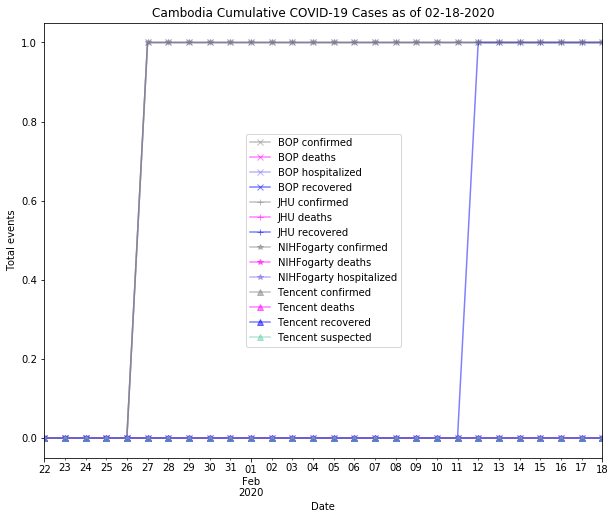
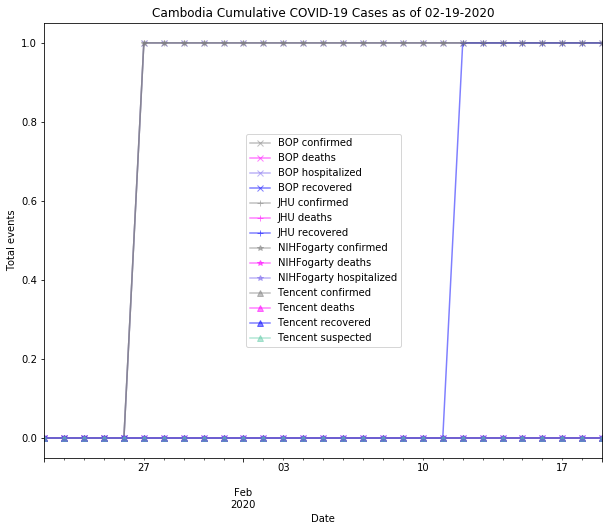
updating daily figs

diff --git a/country_reports/Germany_report.md b/country_reports/Germany_report.md
@@ -1,6 +1,6 @@
 # Germany
 ## NSSAC COVID-19 Summary
-## 02/18/2020
+## 02/19/2020
 
 
 
@@ -14,14 +14,14 @@
 |                           | BOP              | JHU                         | NIHFogarty       | Tencent                       |
 |---------------------------|------------------|-----------------------------|------------------|-------------------------------|
 | First update logged       | 01/12/20         | 01/22/20                    | 01/13/20         | 02/04/20                      |
-| Last update logged        | 02/06/20         | 02/17/20                    | 02/18/20         | 02/18/20                      |
+| Last update logged        | 02/06/20         | 02/18/20                    | 02/18/20         | 02/19/20                      |
 | Method                    | Public line list | Cases by day & country list | Public line list | Daily cases in country scrape |
 | First known case          | 01/27/20         | 01/22/20                    | 01/28/20         | 02/07/20                      |
 | Total confirmed cases     | 13               | 16                          | 16               | 16                            |
-| New cases since yesterday |                  |                             |                  | 16                            |
+| New cases since yesterday |                  |                             |                  | 0                             |
 | Total suspected           |                  |                             |                  | 0                             |
 | Total hospitalized        | 0                |                             | 0                |                               |
-| Total recovered           | 1                | 1                           |                  | 0                             |
+| Total recovered           | 1                | 12                          |                  | 0                             |
 | Total deaths              | 0                | 0                           | 0                | 0                             |
 
 Data sources: BOP, JHU, NIH-Fogarty, Tencent

diff --git a/country_reports/Australia_report.md b/country_reports/Australia_report.md
@@ -1,6 +1,6 @@
 # Australia
 ## NSSAC COVID-19 Summary
-## 02/18/2020
+## 02/19/2020
 
 
 
@@ -14,11 +14,11 @@
 |                           | BOP              | JHU                         | NIHFogarty       | Tencent                       |
 |---------------------------|------------------|-----------------------------|------------------|-------------------------------|
 | First update logged       | 01/12/20         | 01/22/20                    | 01/13/20         | 02/04/20                      |
-| Last update logged        | 02/06/20         | 02/17/20                    | 02/18/20         | 02/18/20                      |
+| Last update logged        | 02/06/20         | 02/18/20                    | 02/18/20         | 02/19/20                      |
 | Method                    | Public line list | Cases by day & country list | Public line list | Daily cases in country scrape |
 | First known case          | 01/25/20         | 01/22/20                    | 01/25/20         | 02/16/20                      |
 | Total confirmed cases     | 15               | 15                          | 15               | 15                            |
-| New cases since yesterday |                  |                             |                  | 15                            |
+| New cases since yesterday |                  |                             |                  | 0                             |
 | Total suspected           |                  |                             |                  | 0                             |
 | Total hospitalized        | 5                |                             | 5                |                               |
 | Total recovered           | 0                | 10                          |                  | 5                             |

diff --git a/country_reports/Canada_report.md b/country_reports/Canada_report.md
@@ -1,6 +1,6 @@
 # Canada
 ## NSSAC COVID-19 Summary
-## 02/18/2020
+## 02/19/2020
 
 
 
@@ -14,11 +14,11 @@
 |                           | BOP              | JHU                         | NIHFogarty       | Tencent                       |
 |---------------------------|------------------|-----------------------------|------------------|-------------------------------|
 | First update logged       | 01/12/20         | 01/22/20                    | 01/13/20         | 02/04/20                      |
-| Last update logged        | 02/06/20         | 02/17/20                    | 02/18/20         | 02/18/20                      |
+| Last update logged        | 02/06/20         | 02/18/20                    | 02/18/20         | 02/19/20                      |
 | Method                    | Public line list | Cases by day & country list | Public line list | Daily cases in country scrape |
 | First known case          | 01/25/20         | 01/22/20                    | 01/26/20         | 02/06/20                      |
 | Total confirmed cases     | 5                | 8                           | 4                | 7                             |
-| New cases since yesterday |                  |                             |                  | 7                             |
+| New cases since yesterday |                  |                             |                  | 0                             |
 | Total suspected           |                  |                             |                  | 0                             |
 | Total hospitalized        | 3                |                             | 2                |                               |
 | Total recovered           | 1                | 1                           |                  | 0                             |

diff --git a/country_reports/Cambodia_report.md b/country_reports/Cambodia_report.md
@@ -1,6 +1,6 @@
 # Cambodia
 ## NSSAC COVID-19 Summary
-## 02/18/2020
+## 02/19/2020
 
 
 
@@ -14,7 +14,7 @@
 |                           | BOP              | JHU                         | NIHFogarty       | Tencent                       |
 |---------------------------|------------------|-----------------------------|------------------|-------------------------------|
 | First update logged       | 01/12/20         | 01/22/20                    | 01/13/20         | 02/04/20                      |
-| Last update logged        | 02/06/20         | 02/17/20                    | 02/18/20         | 02/18/20                      |
+| Last update logged        | 02/06/20         | 02/18/20                    | 02/18/20         | 02/19/20                      |
 | Method                    | Public line list | Cases by day & country list | Public line list | Daily cases in country scrape |
 | First known case          | 01/27/20         | 01/22/20                    | 01/27/20         | 02/04/20                      |
 | Total confirmed cases     | 1                | 1                           | 1                | 0                             |

diff --git a/country_reports/Finland_report.md b/country_reports/Finland_report.md
@@ -1,6 +1,6 @@
 # Finland
 ## NSSAC COVID-19 Summary
-## 02/18/2020
+## 02/19/2020
 
 
 
@@ -14,7 +14,7 @@
 |                           | BOP              | JHU                         | NIHFogarty       | Tencent                       |
 |---------------------------|------------------|-----------------------------|------------------|-------------------------------|
 | First update logged       | 01/12/20         | 01/22/20                    | 01/13/20         | 02/04/20                      |
-| Last update logged        | 02/06/20         | 02/17/20                    | 02/18/20         | 02/18/20                      |
+| Last update logged        | 02/06/20         | 02/18/20                    | 02/18/20         | 02/19/20                      |
 | Method                    | Public line list | Cases by day & country list | Public line list | Daily cases in country scrape |
 | First known case          | 01/29/20         | 01/22/20                    | 01/29/20         | 02/06/20                      |
 | Total confirmed cases     | 1                | 1                           | 1                | 0                             |

diff --git a/country_reports/France_report.md b/country_reports/France_report.md
@@ -1,6 +1,6 @@
 # France
 ## NSSAC COVID-19 Summary
-## 02/18/2020
+## 02/19/2020
 
 
 
@@ -14,7 +14,7 @@
 |                           | BOP              | JHU                         | NIHFogarty       | Tencent                       |
 |---------------------------|------------------|-----------------------------|------------------|-------------------------------|
 | First update logged       | 01/12/20         | 01/22/20                    | 01/13/20         | 02/04/20                      |
-| Last update logged        | 02/06/20         | 02/17/20                    | 02/18/20         | 02/18/20                      |
+| Last update logged        | 02/06/20         | 02/18/20                    | 02/18/20         | 02/19/20                      |
 | Method                    | Public line list | Cases by day & country list | Public line list | Daily cases in country scrape |
 | First known case          | 01/24/20         | 01/22/20                    | 01/25/20         | 02/04/20                      |
 | Total confirmed cases     | 6                | 12                          | 11               | 12                            |

diff --git a/country_reports/Belgium_report.md b/country_reports/Belgium_report.md
@@ -1,6 +1,6 @@
 # Belgium
 ## NSSAC COVID-19 Summary
-## 02/18/2020
+## 02/19/2020
 
 
 
@@ -14,7 +14,7 @@
 |                           | BOP              | JHU                         | Tencent                       |
 |---------------------------|------------------|-----------------------------|-------------------------------|
 | First update logged       | 01/12/20         | 01/22/20                    | 02/04/20                      |
-| Last update logged        | 02/06/20         | 02/17/20                    | 02/18/20                      |
+| Last update logged        | 02/06/20         | 02/18/20                    | 02/19/20                      |
 | Method                    | Public line list | Cases by day & country list | Daily cases in country scrape |
 | First known case          | 02/04/20         | 01/22/20                    | 02/06/20                      |
 | Total confirmed cases     | 1                | 1                           | 0                             |
